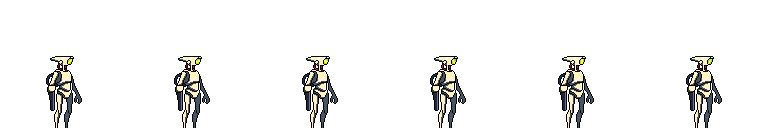
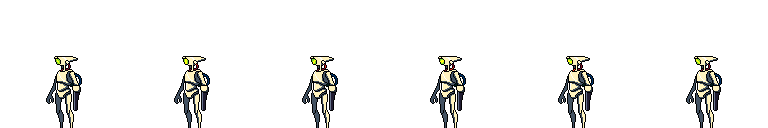
Sprites players

diff --git a/js/Player1.js b/js/Player1.js
@@ -10,7 +10,7 @@ class Player1{
 
         this.x = canvasW * 0.8
         
-        this.y0 = canvasH * 0.7
+        this.y0 = canvasH * 0.61
         this.y = this.y0
         
         this.vy = 0
@@ -22,8 +22,8 @@ class Player1{
         this.img.frameCount = 6
         this.frameIndex = 0
 
-        this.width = 146
-        this.height = 150 
+        this.width = 200
+        this.height = 220 
 
         this.bullets = []
 
@@ -37,6 +37,7 @@ class Player1{
             RIGHT1 : false,
             JUMP1 : false, 
             LEFT1 : false,
+			SHOOT1: false,
         }
 
         this.setControls()
@@ -46,16 +47,20 @@ class Player1{
 			switch (event.code) {
 				case this.keys1.JUMP1:
 					this.pressedControl.JUMP1 = true
+			
 					break
 				case this.keys1.RIGHT1:
 					this.pressedControl.RIGHT1 = true
+					
 					break
 				case this.keys1.SHOOT1:
+					this.pressedControl.SHOOT1 = true
 					this.shoot()
 					this.bulletAudio.play()
 					break
 				case this.keys1.LEFT1:
 					this.pressedControl.LEFT1 = true
+			
 					break
 			}
 		})
@@ -63,12 +68,21 @@ class Player1{
 			switch (event.code) {
 				case this.keys1.RIGHT1:
 					this.pressedControl.RIGHT1 = false
+					
 					break
 				case this.keys1.JUMP1: 
 					this.pressedControl.JUMP1 = false
+					
 					break
 				case this.keys1.LEFT1:
 					this.pressedControl.LEFT1 = false
+					
+					break
+				case this.keys1.SHOOT1:
+					this.pressedControl.SHOOT1 = false
+					this.shoot()
+					this.bulletAudio.play()
+					
 					break
 			}
 		})
@@ -99,6 +113,21 @@ class Player1{
 		}
 	}
     draw(frameCounter) {
+
+		if (this.pressedControl.SHOOT1){
+			this.img.src = 'assets/characters/Infantryman/Shot_2left.png'
+			this.img.frameCount = 5
+		}else if(this.pressedControl.RIGHT1){
+			this.img.src = 'assets/characters/Infantryman/Walkright.png'
+			this.img.frameCount = 6
+
+		}else if(this.pressedControl.LEFT1){
+			this.img.src = 'assets/characters/Infantryman/Walkleft.png'
+
+		}else{
+			this.img.src = 'assets/characters/Infantryman/Idle.png'
+			this.img.frameCount = 6
+		}
 		// Pintamos un cada frame del sprite en función del frameIndex
 		this.ctx.drawImage(
 			this.img,

diff --git a/js/Player.js b/js/Player.js
@@ -10,7 +10,7 @@ class Player {
 
 		this.x = canvasW * 0.09
 
-		this.y0 = canvasH * 0.7
+		this.y0 = canvasH * 0.61
 		this.y = this.y0
 
 		this.vy = 0
@@ -22,8 +22,8 @@ class Player {
 		this.img.frameCount = 5
 		this.frameIndex = 0
 
-		this.width = 146
-		this.height = 150
+		this.width = 200
+		this.height = 220
 
 		this.bullets = []
 
@@ -37,6 +37,7 @@ class Player {
 			RIGHT : false,
 			JUMP : false,
 			LEFT : false,
+			SHOOT : false,
 		}
 
 		this.setControls()
@@ -50,13 +51,17 @@ class Player {
 					break
 				case this.keys.RIGHT:
 					this.pressedControl.RIGHT = true
+					
 					break
 				case this.keys.SHOOT:
+					this.pressedControl.SHOOT = true
 					this.shoot()
 					this.bulletAudio.play()
+					
 					break
 				case this.keys.LEFT:
 					this.pressedControl.LEFT = true
+					
 					break
 			}
 		})
@@ -64,12 +69,18 @@ class Player {
 			switch (event.code) {
 				case this.keys.RIGHT:
 					this.pressedControl.RIGHT = false
+					
 					break
 				case this.keys.JUMP: 
 					this.pressedControl.JUMP = false
 					break
 				case this.keys.LEFT:
 					this.pressedControl.LEFT = false
+					
+					break
+				case this.keys.SHOOT:
+					this.pressedControl.SHOOT = false
+					
 					break
 			}
 		})
@@ -103,6 +114,22 @@ class Player {
 	}
 
 	draw(frameCounter) {
+
+		if (this.pressedControl.SHOOT){
+			this.img.src = 'assets/characters/Destroyer/Shot_2.png'
+			this.img.frameCount = 8
+		}else if(this.pressedControl.RIGHT){
+			this.img.src = 'assets/characters/Destroyer/Walk.png'
+			this.img.frameCount = 8
+		}else if(this.pressedControl.LEFT){
+			this.img.src = 'assets/characters/Destroyer/Walkleft.png'
+			this.img.frameCount = 8
+		}else{
+			this.img.src = 'assets/characters/Destroyer/Idle.png'
+			this.img.frameCount = 5
+		}
+
+
 		// Pintamos un cada frame del sprite en función del frameIndex
 		this.ctx.drawImage(
 			this.img,
@@ -149,7 +176,9 @@ class Player {
 				this.y0,
 				this.canvasW,
 				this.canvasH
+				
 			)
+		
 		)
 	}
 }

diff --git a/js/Game.js b/js/Game.js
@@ -138,11 +138,6 @@ const Game = {
 	clearCanvas() {
 		this.ctx.clearRect(0, 0, this.canvasW, this.canvasH)
 	},
-	adjustPlayersPosition() {
-		// Ajustar posición de los jugadores para que se miren el uno al otro
-		this.player2.x = this.player.x + this.player.width + 50;
-		this.player.y = this.player2.y = Math.min(this.player.y, this.player2.y);
-	},
 }
 
 export default Game
